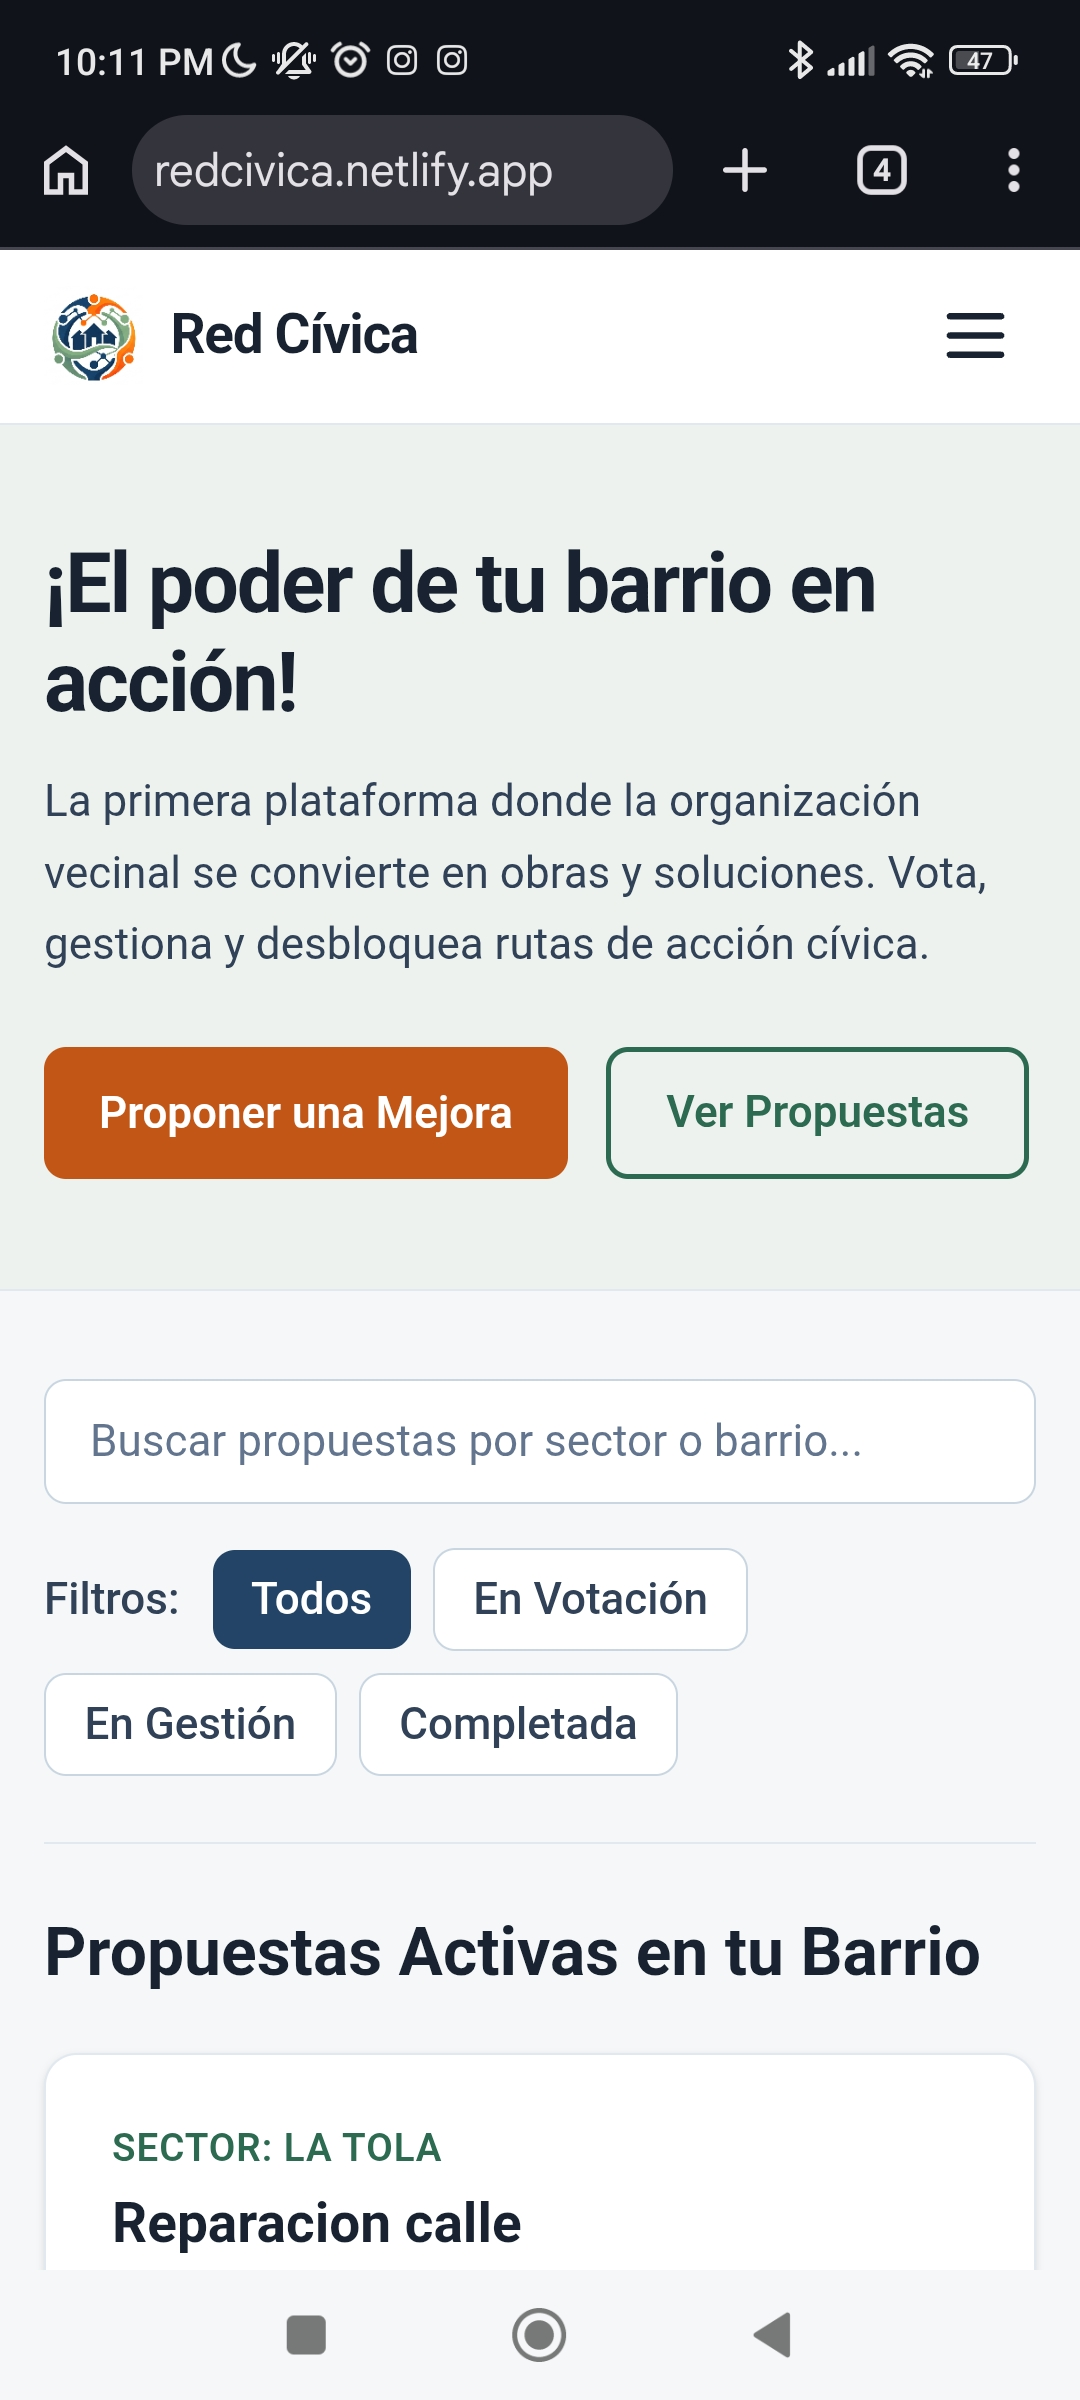
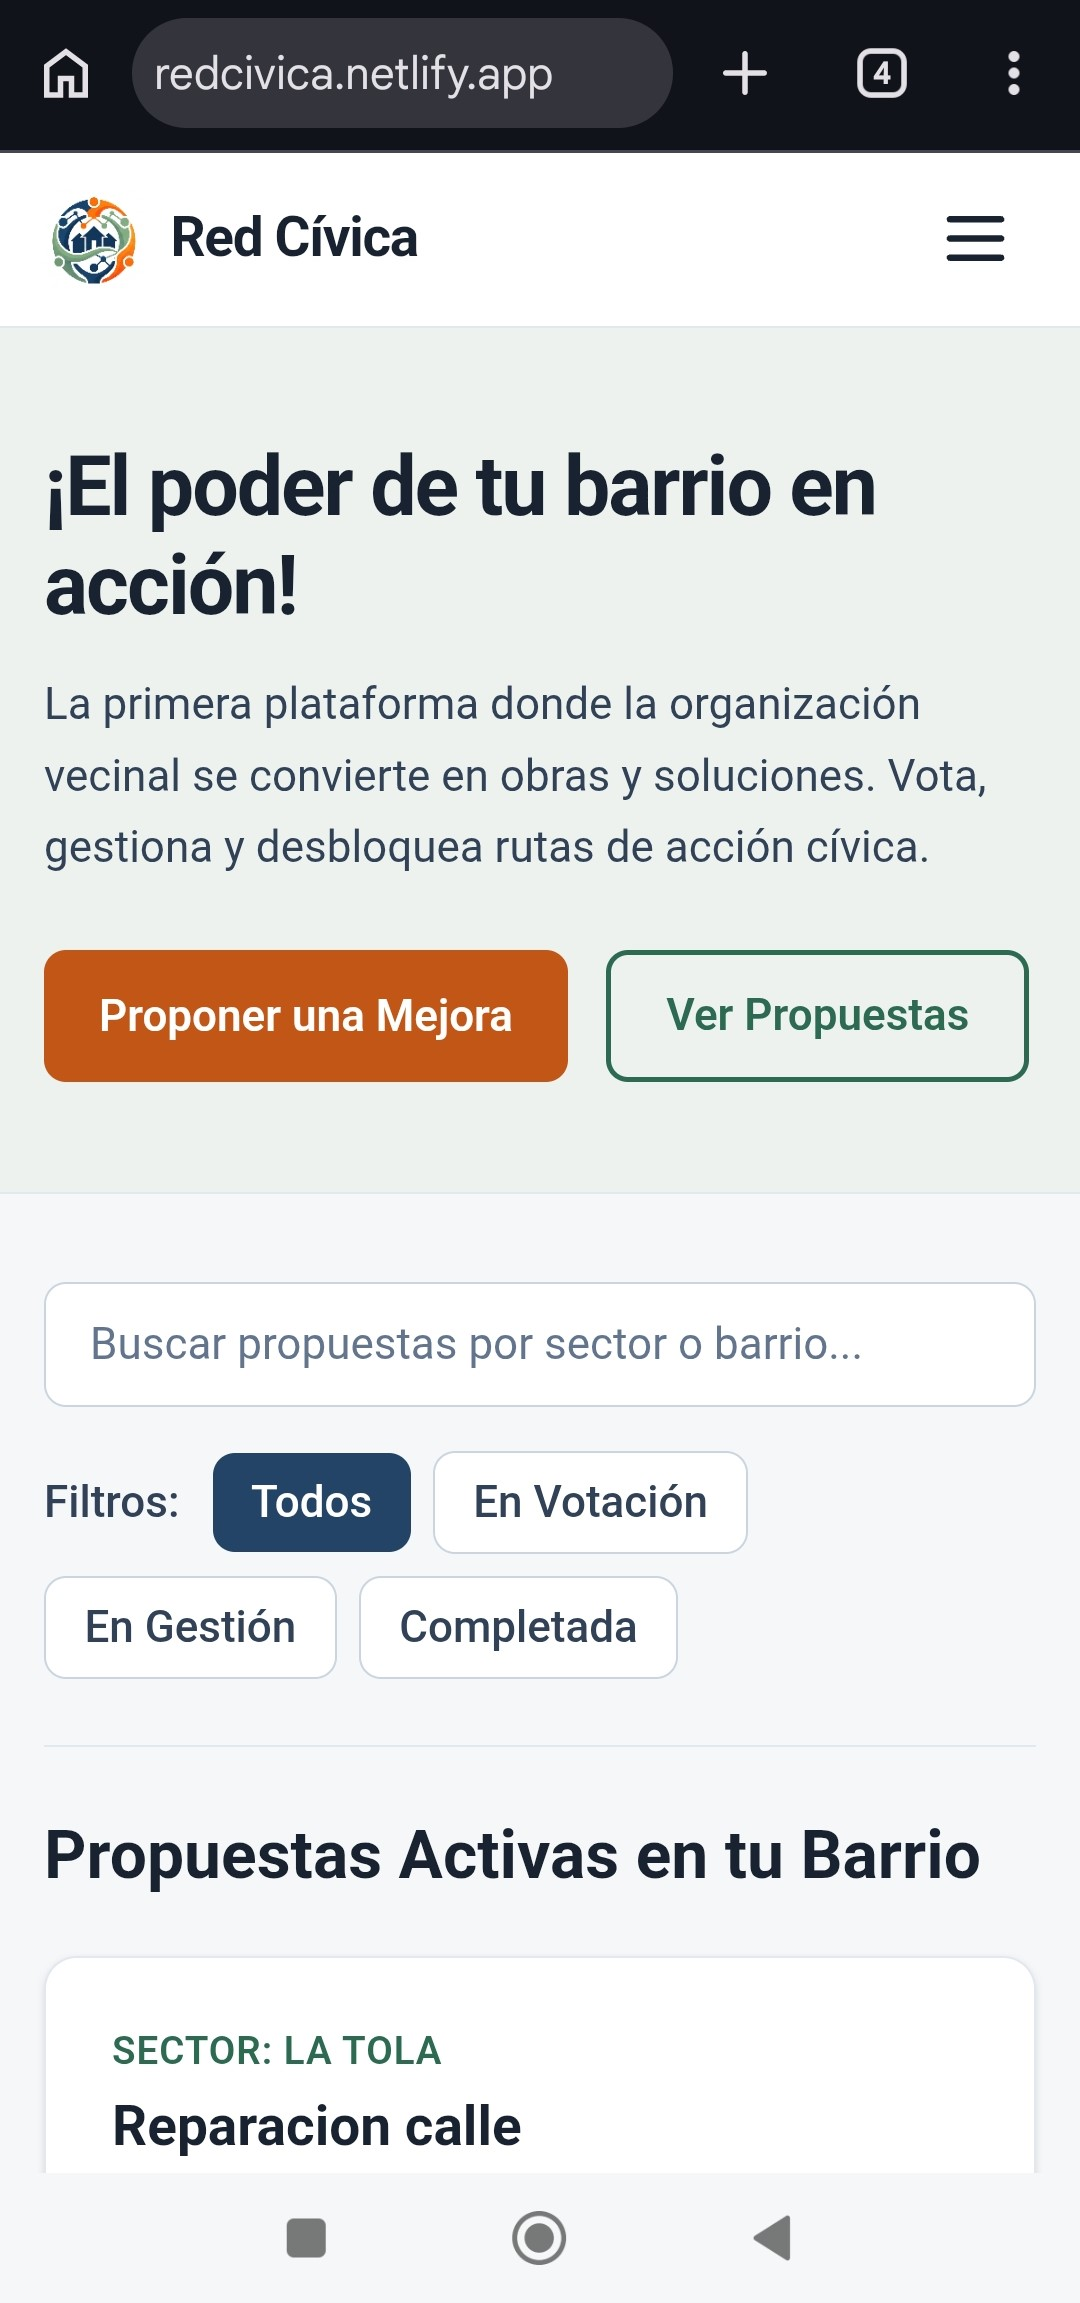
enlaces README corregidos

diff --git a/README.md b/README.md
@@ -83,7 +83,7 @@ Los barrios de Quito saben exactamente qué necesitan (luminarias, bacheo, segur
 ### Flujo de Activación Automática ("La Compuerta" a los 200 votos)
 
 <div align="center">
-  <img src="./assets/demo-compuerta.gif" width="280" alt="Demo del trigger automático al alcanzar 200 votos y desbloqueo de ruta de acción" />
+  <img src="./assets/demo-flujo.gif" width="280" alt="Demo del trigger automático al alcanzar 200 votos y desbloqueo de ruta de acción" />
   <p><em>Transición automática de <code>En Votación</code> a <code>En Gestión</code> mediante trigger en PostgreSQL y reclamo de paso colaborativo.</em></p>
 </div>
 
@@ -91,7 +91,7 @@ Los barrios de Quito saben exactamente qué necesitan (luminarias, bacheo, segur
 
 | Exploración y Filtros | Votación (1 Vecino = 1 Voto) | Ruta de Acción y Evidencia |
 | :---: | :---: | :---: |
-| <img src="./assets/screen-home.jpeg" width="230" alt="Feed de propuestas" /> | <img src="./assets/screen-voto.jpeg" width="230" alt="Detalle de propuesta y votación" /> | <img src="./assets/screen-ruta.jpeg" width="230" alt="Ruta de acción colaborativa" /> |
+| <img src="./assets/screen-home.jpg" width="230" alt="Feed de propuestas" /> | <img src="./assets/screen-voto.jpg" width="230" alt="Detalle de propuesta y votación" /> | <img src="./assets/screen-ruta.jpg" width="230" alt="Ruta de acción colaborativa" /> |
 
 ---
 
